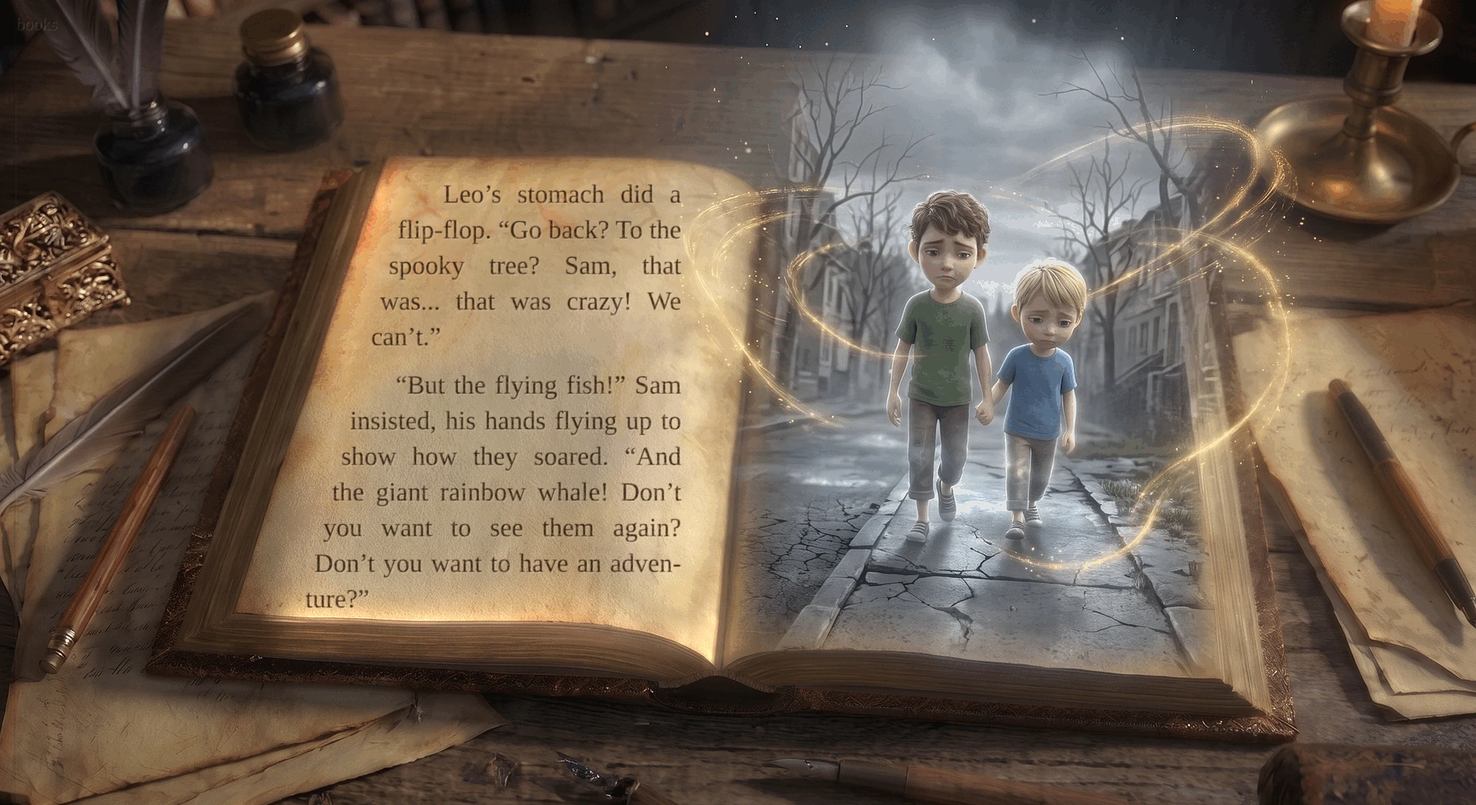
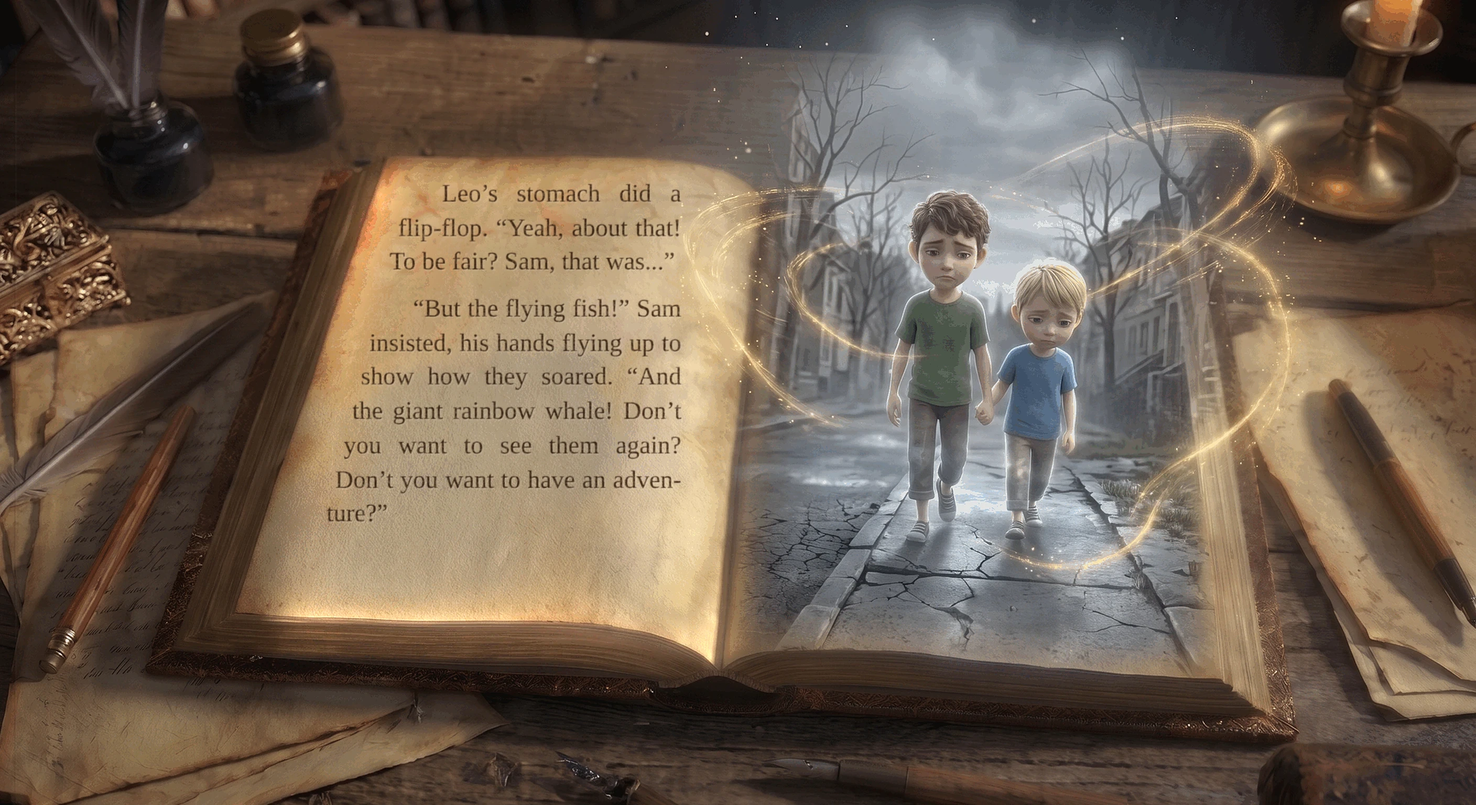
Page 36: Leo's line
Claude-Session: https://claude.ai/code/session_01BFtifSTdmWYaAK88ECs5PE

Changed region(s): [[0.2188, 0.2188, 0.4688, 0.75]]

diff --git a/books/upside-down-world/index.html b/books/upside-down-world/index.html
@@ -131,7 +131,7 @@ body.narrow #bar{gap:6px;padding-top:8px}body.narrow #bar button{padding:0 12px;
   <button id="auto" aria-pressed="true" title="Turn the pages by itself">Auto turn</button>
   <button id="next" aria-label="Next page">&#8594;</button>
 </div>
-<script src="story.js?v=135"></script>
+<script src="story.js?v=136"></script>
 <script src="sprite.js?v=42"></script>
 <script src="lyrics.js?v=2"></script><script src="lyrics2.js?v=1"></script>
 <script src="voice.js?v=20"></script>
@@ -217,7 +217,7 @@ const vids={};let blackT=null;
 function black(){if(!blackT&&gl){blackT=gl.createTexture();gl.bindTexture(gl.TEXTURE_2D,blackT);gl.texImage2D(gl.TEXTURE_2D,0,gl.RGB,1,1,0,gl.RGB,gl.UNSIGNED_BYTE,new Uint8Array([0,0,0]));}return {ready:true,t:blackT};}
 function loadVid(name){if(vids[name])return vids[name];const v=document.createElement('video');v.muted=true;v.defaultMuted=true;v.loop=true;v.playsInline=true;v.setAttribute('playsinline','');v.setAttribute('muted','');v.preload='auto';v.crossOrigin='anonymous';v.src='img/'+name+'.mp4?v=92';
   const o={v,t:null,ok:false};v.addEventListener('playing',()=>{o.ok=true;});vids[name]=o;return o;}
-function pageTex(p){if(p.video)return {c:loadTex('img/'+p.img+'.webp?v=104'),d:p.relief?loadTex('img/'+p.img+'-d.webp'):black(),vid:loadVid(p.video)};return {c:loadTex('img/'+p.img+'.webp?v=104'),d:loadTex('img/'+p.img+'-d.webp')};}
+function pageTex(p){if(p.video)return {c:loadTex('img/'+p.img+'.webp?v=105'),d:p.relief?loadTex('img/'+p.img+'-d.webp'):black(),vid:loadVid(p.video)};return {c:loadTex('img/'+p.img+'.webp?v=105'),d:loadTex('img/'+p.img+'-d.webp')};}
 const ORIGIN={kb:[.72,.55],shade:[.80,.74]};
 function whv(p){return p.whale?[p.whale[0]/1408,p.whale[1]/768,p.whale[2]/1408,p.whale[3]/768]:[0,0,0,0];}
 function swv(p){return p.swirl?[p.swirl[0]/1408,p.swirl[1]/768,p.swirl[2],p.swirl[3]||0]:[0,0,0,0];}
@@ -242,7 +242,7 @@ function makeLayer(i){
   if(layers[i])return layers[i];
   const p=P[i],L=document.createElement('div');L.className='layer';
   const kb=document.createElement('div');kb.className='kb';kb.style.transformOrigin=(p.fx==='shade'?'80% 74%':'72% 55%');
-  if(!gl){let im;if(p.video){im=loadVid(p.video).v;im.poster='img/'+p.img+'.webp';}else{im=new Image();im.src='img/'+p.img+'.webp?v=104';im.alt='';}im.className='fb';kb.appendChild(im);}
+  if(!gl){let im;if(p.video){im=loadVid(p.video).v;im.poster='img/'+p.img+'.webp';}else{im=new Image();im.src='img/'+p.img+'.webp?v=105';im.alt='';}im.className='fb';kb.appendChild(im);}
   if(p.fx==='shade'){const s=document.createElement('div');s.className='shade';kb.appendChild(s);L._shade=s;}
   if(p.song){const r=document.createElement('div');r.className='rings';r.style.cssText='left:'+(650/W*100)+'%;top:'+(55/H*100)+'%;width:'+(130/W*100)+'%;height:'+(130/H*100)+'%';r.innerHTML='<i></i><i></i><i></i><i></i>';kb.appendChild(r);L._rings=r;}
   const t=document.createElement('div');t.className='txt'+(p.cover?' cover':'')+(p.book?' bk':'')+(p.songcard?' sc':'')+(p.big?' big':'');let b=p.box;

diff --git a/books/upside-down-world/story.js b/books/upside-down-world/story.js
@@ -37,7 +37,7 @@ window.STORY={"title":"The Upside-Down World","author":"M. A. Mafodh","pages":[
 {"img":"p14e_2","video":"p14v_2","box":[374,172,636,596],"parts":["Leo's heart raced as he looked from the glowing ball to his window, out toward the dark silhouette of the park. The oak tree wasn't done with them yet."],"book":true},
 {"img":"p14e_3","video":"p14v_3","box":[374,172,636,596],"parts":["Slowly, a daring grin spread across Leo's face. He looked over at Sam's bed and whispered, his eyes shining with excitement, \"Get some sleep, Sam. Because tomorrow after school... we're going back.\""],"book":true},
 {"ch":"Chapter Two","img":"p18","sprite":"p18k","dust":true,"book":true,"box":[374,172,636,596],"parts":["The next day, the walk home from school felt longer than usual. The world seemed gray and boring after what they had seen. Sam kicked at a loose pebble on the sidewalk.\n\"Leo?\" he said, looking up at his big brother with pleading eyes. \"Leo, can we go back?\""]},
-{"img":"p18b","sprite":"p18k","dust":true,"book":true,"box":[374,172,636,596],"parts":["Leo's stomach did a flip-flop. \"Go back? To the spooky tree? Sam, that was... that was crazy! We can't.\"\n\"But the flying fish!\" Sam insisted, his hands flying up to show how they soared. \"And the giant rainbow whale! Don't you want to see them again? Don't you want to have an adventure?\""]},
+{"img":"p18b","sprite":"p18k","dust":true,"book":true,"box":[374,172,636,596],"parts":["Leo's stomach did a flip-flop. \"Yeah, about that! To be fair? Sam, that was...\"\n\"But the flying fish!\" Sam insisted, his hands flying up to show how they soared. \"And the giant rainbow whale! Don't you want to see them again? Don't you want to have an adventure?\""]},
 {"img":"p19","sprite":"p19k","dust":true,"book":true,"box":[374,172,636,596],"parts":["Leo hesitated. A tiny part of him, the part that had stared in wonder at the flying whale, did want to go back. The bigger part was still scared.\n\"We could take evidence,\" Sam whispered, as if it was a top-secret plan. \"We could take my camera! We could film it, and then we'd have proof!\""]},
 {"img":"p19b","sprite":"p19k","dust":true,"book":true,"box":[374,172,636,596],"parts":["That was it. Proof. If they had proof, it wouldn't just be a scary, crazy dream. It would be a real, amazing discovery. \"Okay,\" Leo heard himself say. \"Okay. We'll go. But we bring the camera, and we leave the second things get weird.\""]},
 {"img":"p20","sprite":"p20k","dust":true,"book":true,"box":[374,172,636,596],"parts":["Back at the park, the old oak tree looked glowy, spooky, and quiet. This time, Leo carried Sam’s little camera. He snapped a few quick pictures of the tree and its secret gate. Then, taking a deep breath together, they crawled under the branch."]},
